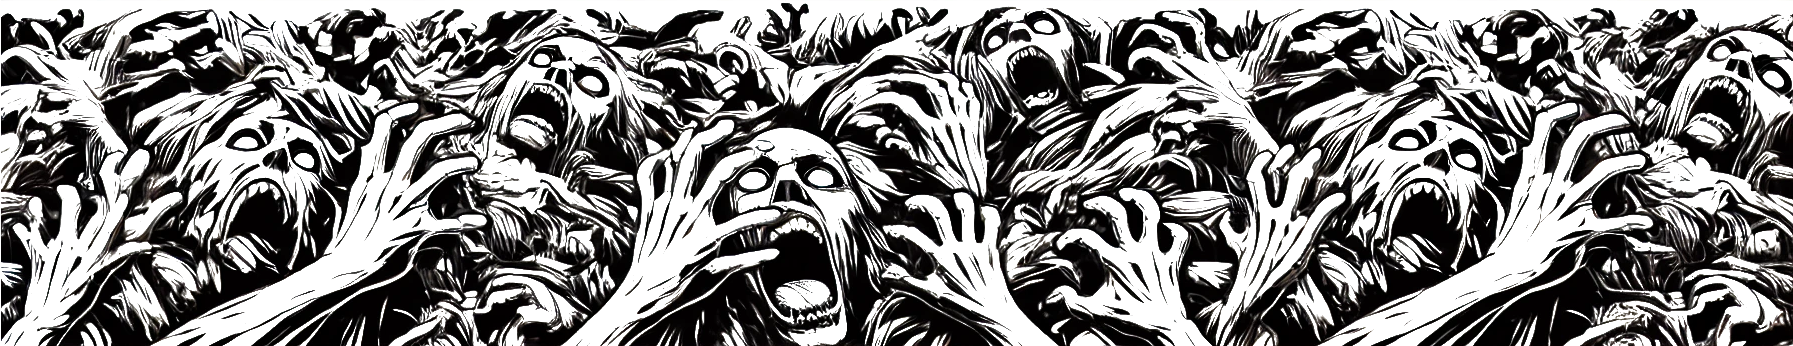
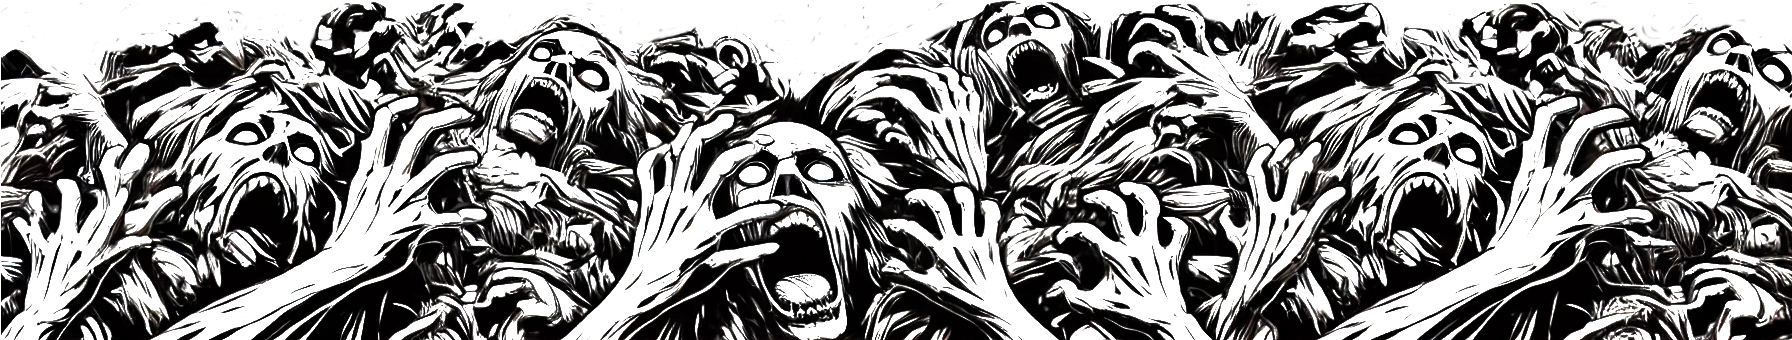
Frightened done

diff --git a/scripts/animatedAnxiety.js b/scripts/animatedAnxiety.js
@@ -293,6 +293,7 @@ class AnimatedAnxiety {
     document.querySelectorAll(".poison-overlay").forEach((el) => el.remove());
     document.querySelectorAll(".poison-aura").forEach((el) => el.remove());
     document.querySelectorAll(".cupid-overlay").forEach((el) => el.remove());
+    document.querySelectorAll(".frightened-overlay").forEach((el) => el.remove());
   }
 
   // New check for unconscious
@@ -788,6 +789,13 @@ class AnimatedAnxiety {
   static createFrightenedMarks() {
     if (!this.frightenedInterval) {
       this.clearEffects();
+
+      // Create frightened overlay
+      const overlay = document.createElement('div');
+      overlay.className = 'frightened-overlay';
+      document.getElementById('interface').appendChild(overlay);
+
+      // Create frightened marks
       this.frightenedInterval = setInterval(() => {
         // Create two marks - one from top, one from bottom
         ["top", "bottom"].forEach((direction) => {

diff --git a/styles/animatedanxiety.css b/styles/animatedanxiety.css
@@ -726,6 +726,35 @@
   }
 }
 
+/* New frightened overlay */
+.frightened-overlay {
+  position: fixed;
+  bottom: 0;
+  left: -5vw;
+  width: 110vw;
+  height: 120px;
+  background-image: url("../assets/Frightened.png");
+  background-repeat: repeat-x;
+  background-size: auto 100%;
+  background-position: bottom;
+  pointer-events: none;
+  z-index: 11;
+  opacity: 0;
+  transform: translateY(100%);
+  animation: frightened-rise 0.8s ease-out forwards;
+}
+
+@keyframes frightened-rise {
+  0% {
+    opacity: 0;
+    transform: translateY(100%);
+  }
+  100% {
+    opacity: 0.7;
+    transform: translateY(0);
+  }
+}
+
 /* Grappled effect styling */
 .grappled-hand {
   display: none;
